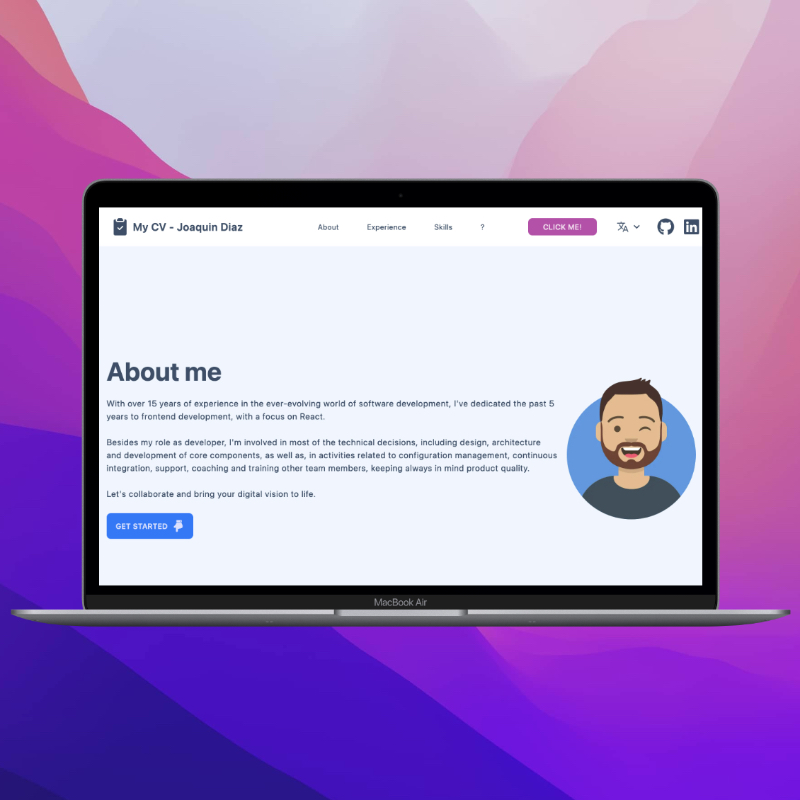
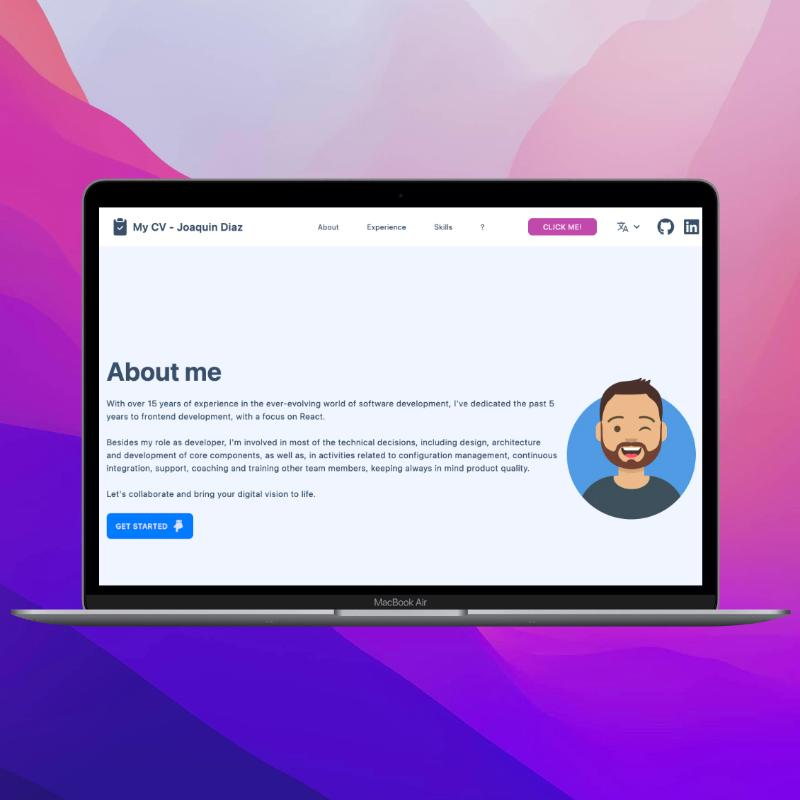
Images optimization (#32)

Changed region(s): [[0.125, 0.625, 0.25, 0.6875], [0.8125, 0.5, 0.8438, 0.5938], [0.75, 0.5625, 0.7812, 0.5938]]

diff --git a/utils/clients.ts b/utils/clients.ts
@@ -8,25 +8,25 @@ export interface Client {
 export const myClients: Client[] = [
   {
     name: "Pluto TV",
-    imageUrl: "/clients/plutotv.png",
+    imageUrl: "/clients/plutotv.webp",
     webUrl: "https://pluto.tv/",
     descriptionKey: "clientDescription4",
   },
   {
     name: "Warner Bros. Discovery",
-    imageUrl: "/clients/warner.png",
+    imageUrl: "/clients/warner.webp",
     webUrl: "https://wbd.com/",
     descriptionKey: "clientDescription1",
   },
   {
     name: "Indeed",
-    imageUrl: "/clients/indeed.png",
+    imageUrl: "/clients/indeed.webp",
     webUrl: "https://indeed.com",
     descriptionKey: "clientDescription2",
   },
   {
     name: "Deloitte",
-    imageUrl: "/clients/deloitte.png",
+    imageUrl: "/clients/deloitte.webp",
     webUrl: "https://deloitte.com",
     descriptionKey: "clientDescription3",
   },

diff --git a/app/[locale]/components/About/About.tsx b/app/[locale]/components/About/About.tsx
@@ -10,7 +10,7 @@ export const About = () => {
       <div className="hero-content flex-col lg:flex-row-reverse">
         <figure className="animate-flip-up lg:hidden">
           <Image
-            src="/avatar.png"
+            src="/avatar.webp"
             alt="Avatar of a guy with a beard, winking and smiling"
             width={180}
             height={196}
@@ -20,7 +20,7 @@ export const About = () => {
         </figure>
         <figure className="hidden animate-flip-up lg:inline lg:w-1/5">
           <Image
-            src="/avatar.png"
+            src="/avatar.webp"
             alt="Avatar of a guy with a beard, winking and smiling"
             width={480}
             height={526}
